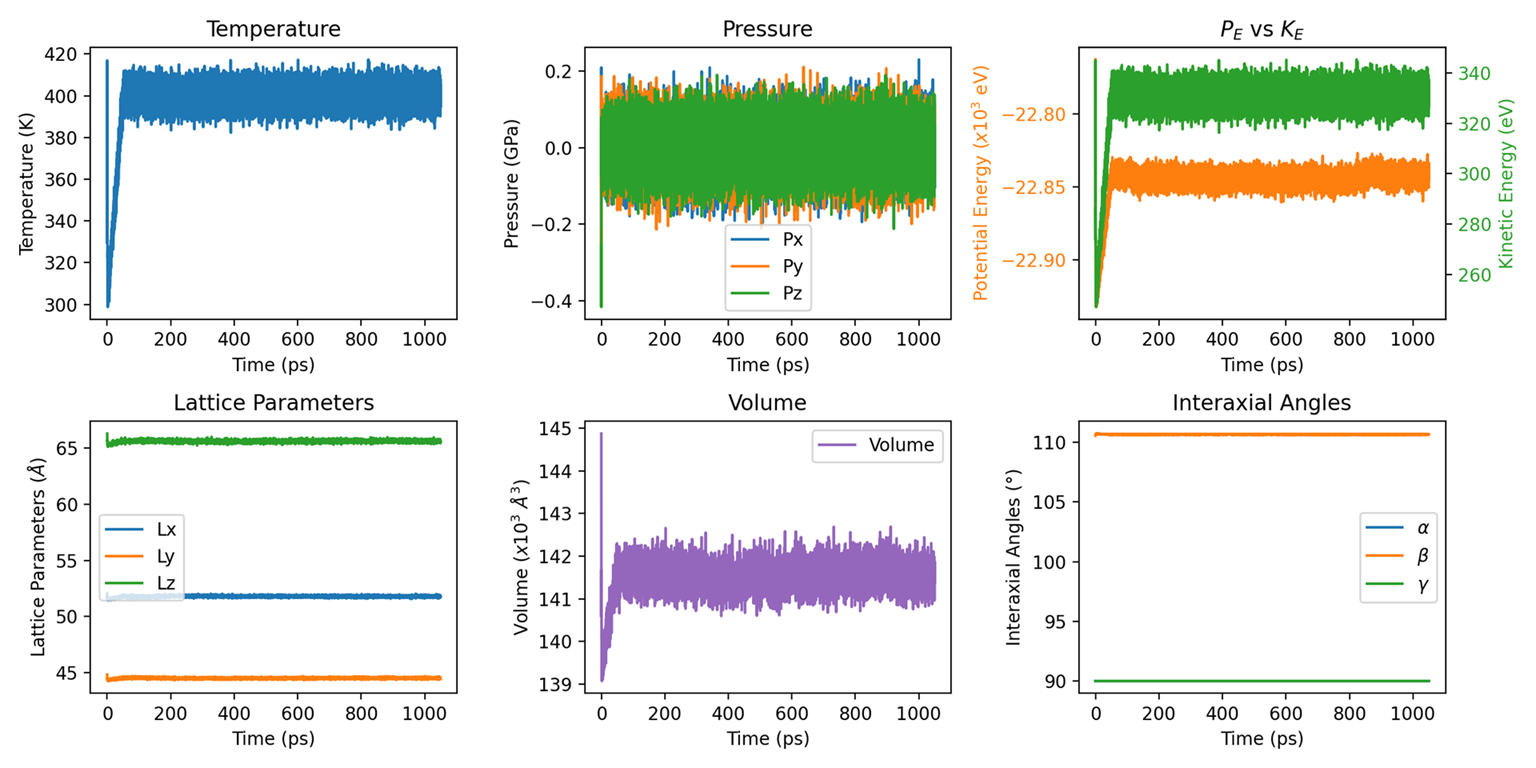
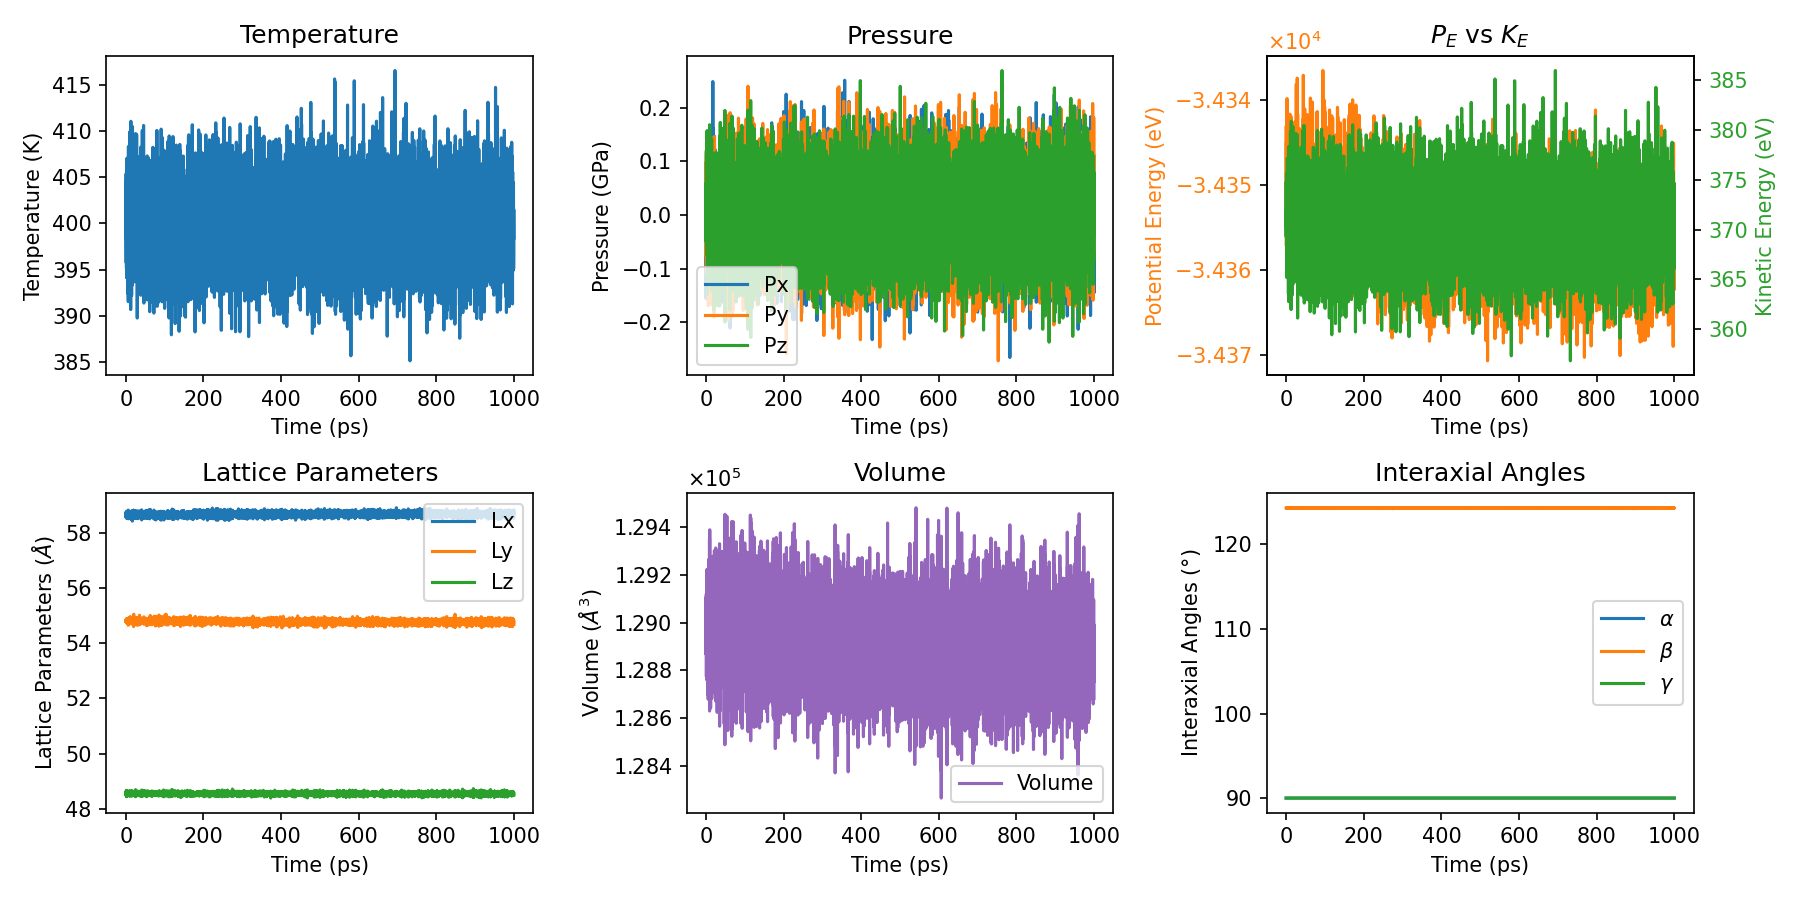
update

diff --git a/Scripts/plt_scripts/plt_nep_thermo.py b/Scripts/plt_scripts/plt_nep_thermo.py
@@ -1,7 +1,8 @@
+import os
 import sys
 import numpy as np
 import matplotlib.pyplot as plt
-import os
+from matplotlib.ticker import ScalarFormatter
 
 def calculate_angle(x, y):
     dot_product = np.einsum('ij,ij->i', x, y)
@@ -146,8 +147,10 @@ color_potential = 'tab:orange'
 color_kinetic = 'tab:green'
 axs[0, 2].set_title(r'$P_E$ vs $K_E$')
 axs[0, 2].set_xlabel('Time (ps)')
-axs[0, 2].set_ylabel(r'Potential Energy ($x10^3$ eV)', color=color_potential)
-axs[0, 2].plot(time, potential_energy/1000, color=color_potential)
+axs[0, 2].set_ylabel(r'Potential Energy (eV)', color=color_potential)
+axs[0, 2].plot(time, potential_energy, color=color_potential)
+axs[0, 2].yaxis.set_major_formatter(ScalarFormatter(useMathText=True))
+axs[0, 2].ticklabel_format(axis='y', style='sci', scilimits=(0,0))
 axs[0, 2].tick_params(axis='y', labelcolor=color_potential)
 
 axs_kinetic = axs[0, 2].twinx()
@@ -165,10 +168,12 @@ axs[1, 0].set_ylabel(r'Lattice Parameters ($\AA$)')
 axs[1, 0].legend()
 
 # Volume
-axs[1, 1].plot(time, volume / 1000, label='Volume', color='tab:purple')
+axs[1, 1].plot(time, volume, label='Volume', color='tab:purple')
+axs[1, 1].yaxis.set_major_formatter(ScalarFormatter(useMathText=True))
+axs[1, 1].ticklabel_format(axis='y', style='sci', scilimits=(0,0))
 axs[1, 1].set_title('Volume')
 axs[1, 1].set_xlabel('Time (ps)')
-axs[1, 1].set_ylabel(r'Volume ($x10^3$ $\AA^3$)')
+axs[1, 1].set_ylabel(r'Volume ($\AA^3$)')
 axs[1, 1].legend()
 
 # Angles (only for triclinic systems)
@@ -184,6 +189,6 @@ if num_columns == 18:
 plt.tight_layout()
 
 if len(sys.argv) > 1 and sys.argv[1] == 'save':
-    plt.savefig('./thermo.png')
+    plt.savefig('./thermo.png', dpi=150)
 else:
     plt.show()
